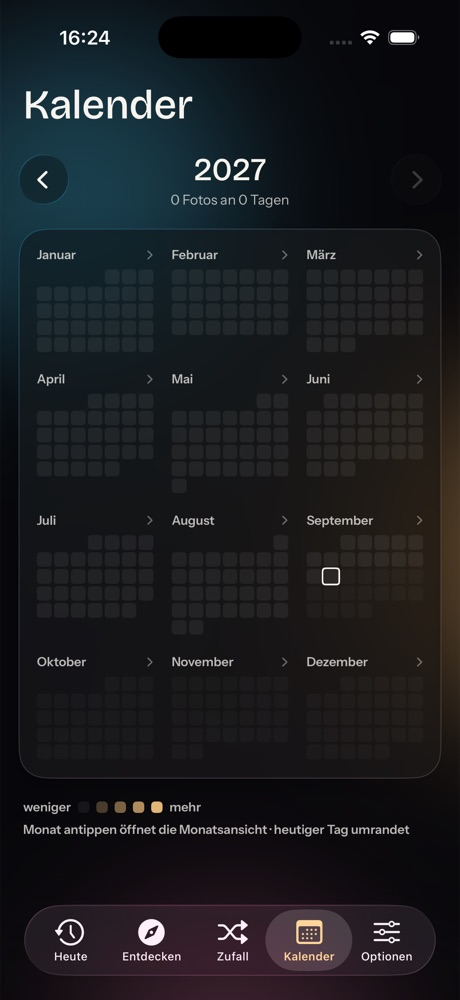
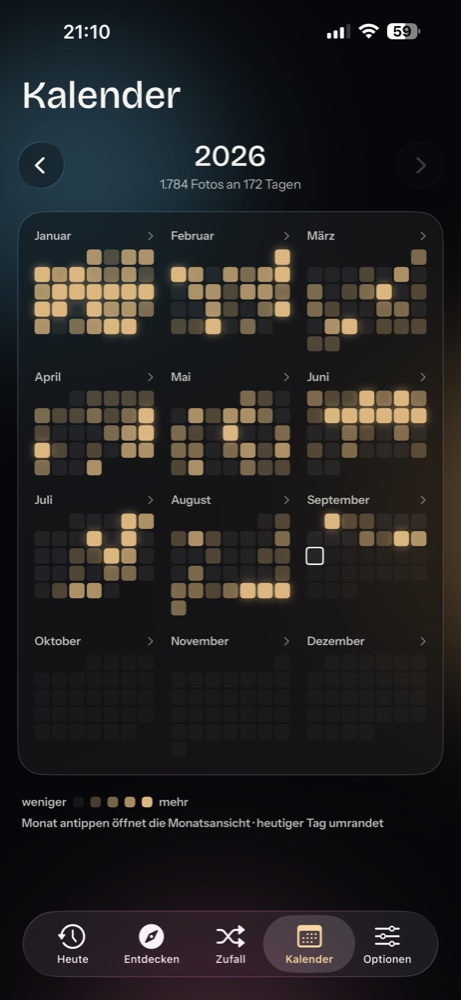
Replace places and calendar screenshots with device captures

diff --git a/index.html b/index.html
@@ -75,8 +75,8 @@
     </div>
   </div>
   <div class="gallery" aria-label="Weitere Einblicke in die App">
-    <img src="assets/img/shot-places.jpg" width="1000" height="2174" loading="lazy" alt="Orte-Karte mit Glas-Pins und der Liste der meistfotografierten Orte">
-    <img src="assets/img/shot-calendar.jpg" width="1000" height="2174" loading="lazy" alt="Kalender-Heatmap eines Jahres">
+    <img src="assets/img/shot-places.jpg" width="1000" height="2174" loading="lazy" alt="Orte-Karte: Paris, München und Venedig als Glas-Pins über Europa, darunter die meistfotografierten Orte mit Reisen und Jahren">
+    <img src="assets/img/shot-calendar.jpg" width="1000" height="2174" loading="lazy" alt="Kalender 2026: Heatmap aller Tage mit 1.784 Fotos an 172 Tagen">
     <img src="assets/img/shot-settings.jpg" width="1000" height="2174" loading="lazy" alt="Einstellungen mit Filtern, Zuhause und Erinnerung">
   </div>
 </section>

diff --git a/en/index.html b/en/index.html
@@ -75,8 +75,8 @@
     </div>
   </div>
   <div class="gallery" aria-label="More views of the app">
-    <img src="../assets/img/shot-places.jpg" width="1000" height="2174" loading="lazy" alt="Places map with glass pins and the list of most photographed places">
-    <img src="../assets/img/shot-calendar.jpg" width="1000" height="2174" loading="lazy" alt="Calendar heatmap of one year">
+    <img src="../assets/img/shot-places.jpg" width="1000" height="2174" loading="lazy" alt="Places map: Paris, Munich and Venice as glass pins over Europe, below them the most photographed places with trips and years">
+    <img src="../assets/img/shot-calendar.jpg" width="1000" height="2174" loading="lazy" alt="Calendar 2026: heatmap of all days with 1,784 photos on 172 days">
     <img src="../assets/img/shot-settings.jpg" width="1000" height="2174" loading="lazy" alt="Settings with filters, home and reminder">
   </div>
 </section>
